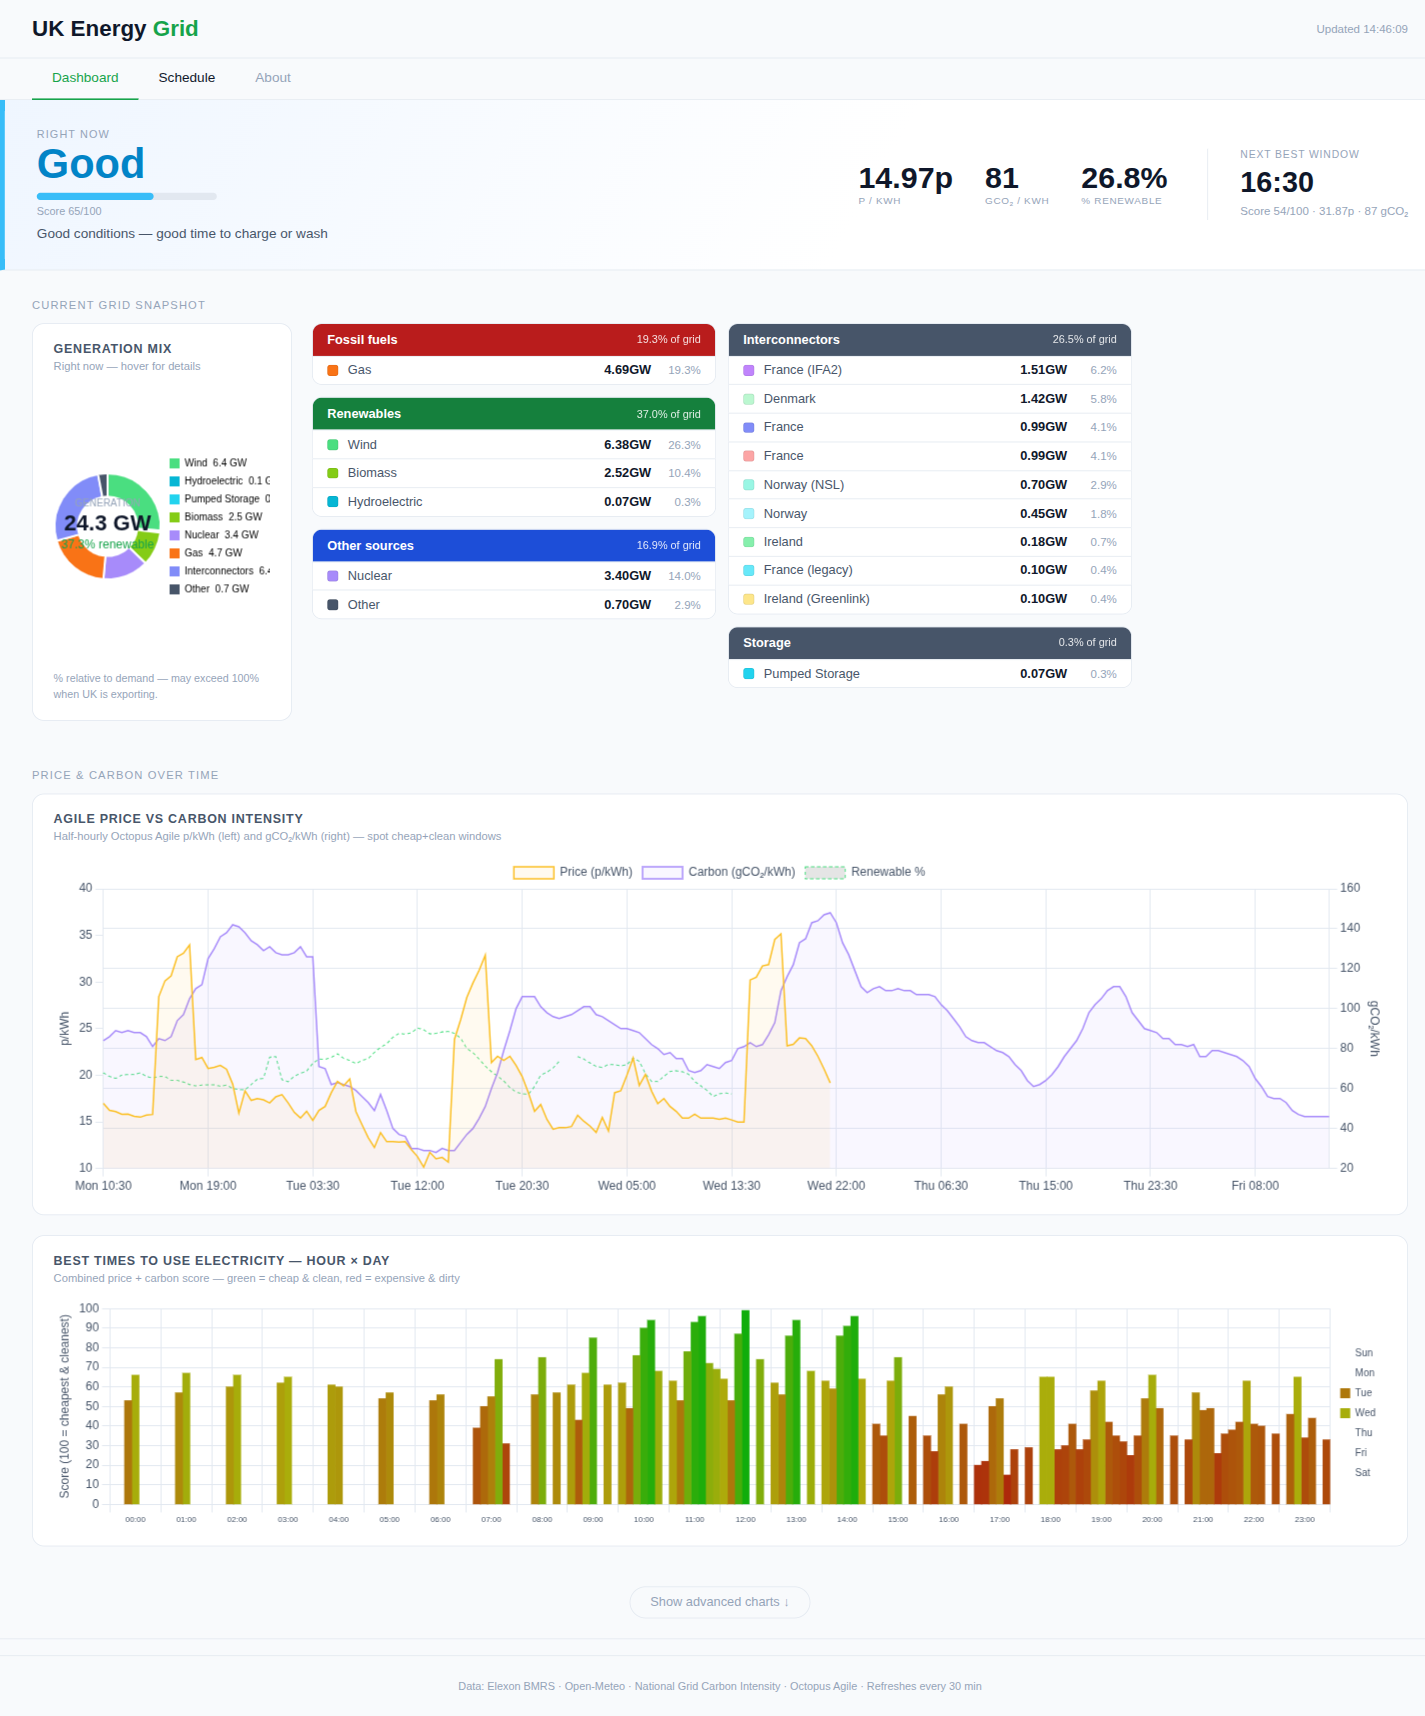
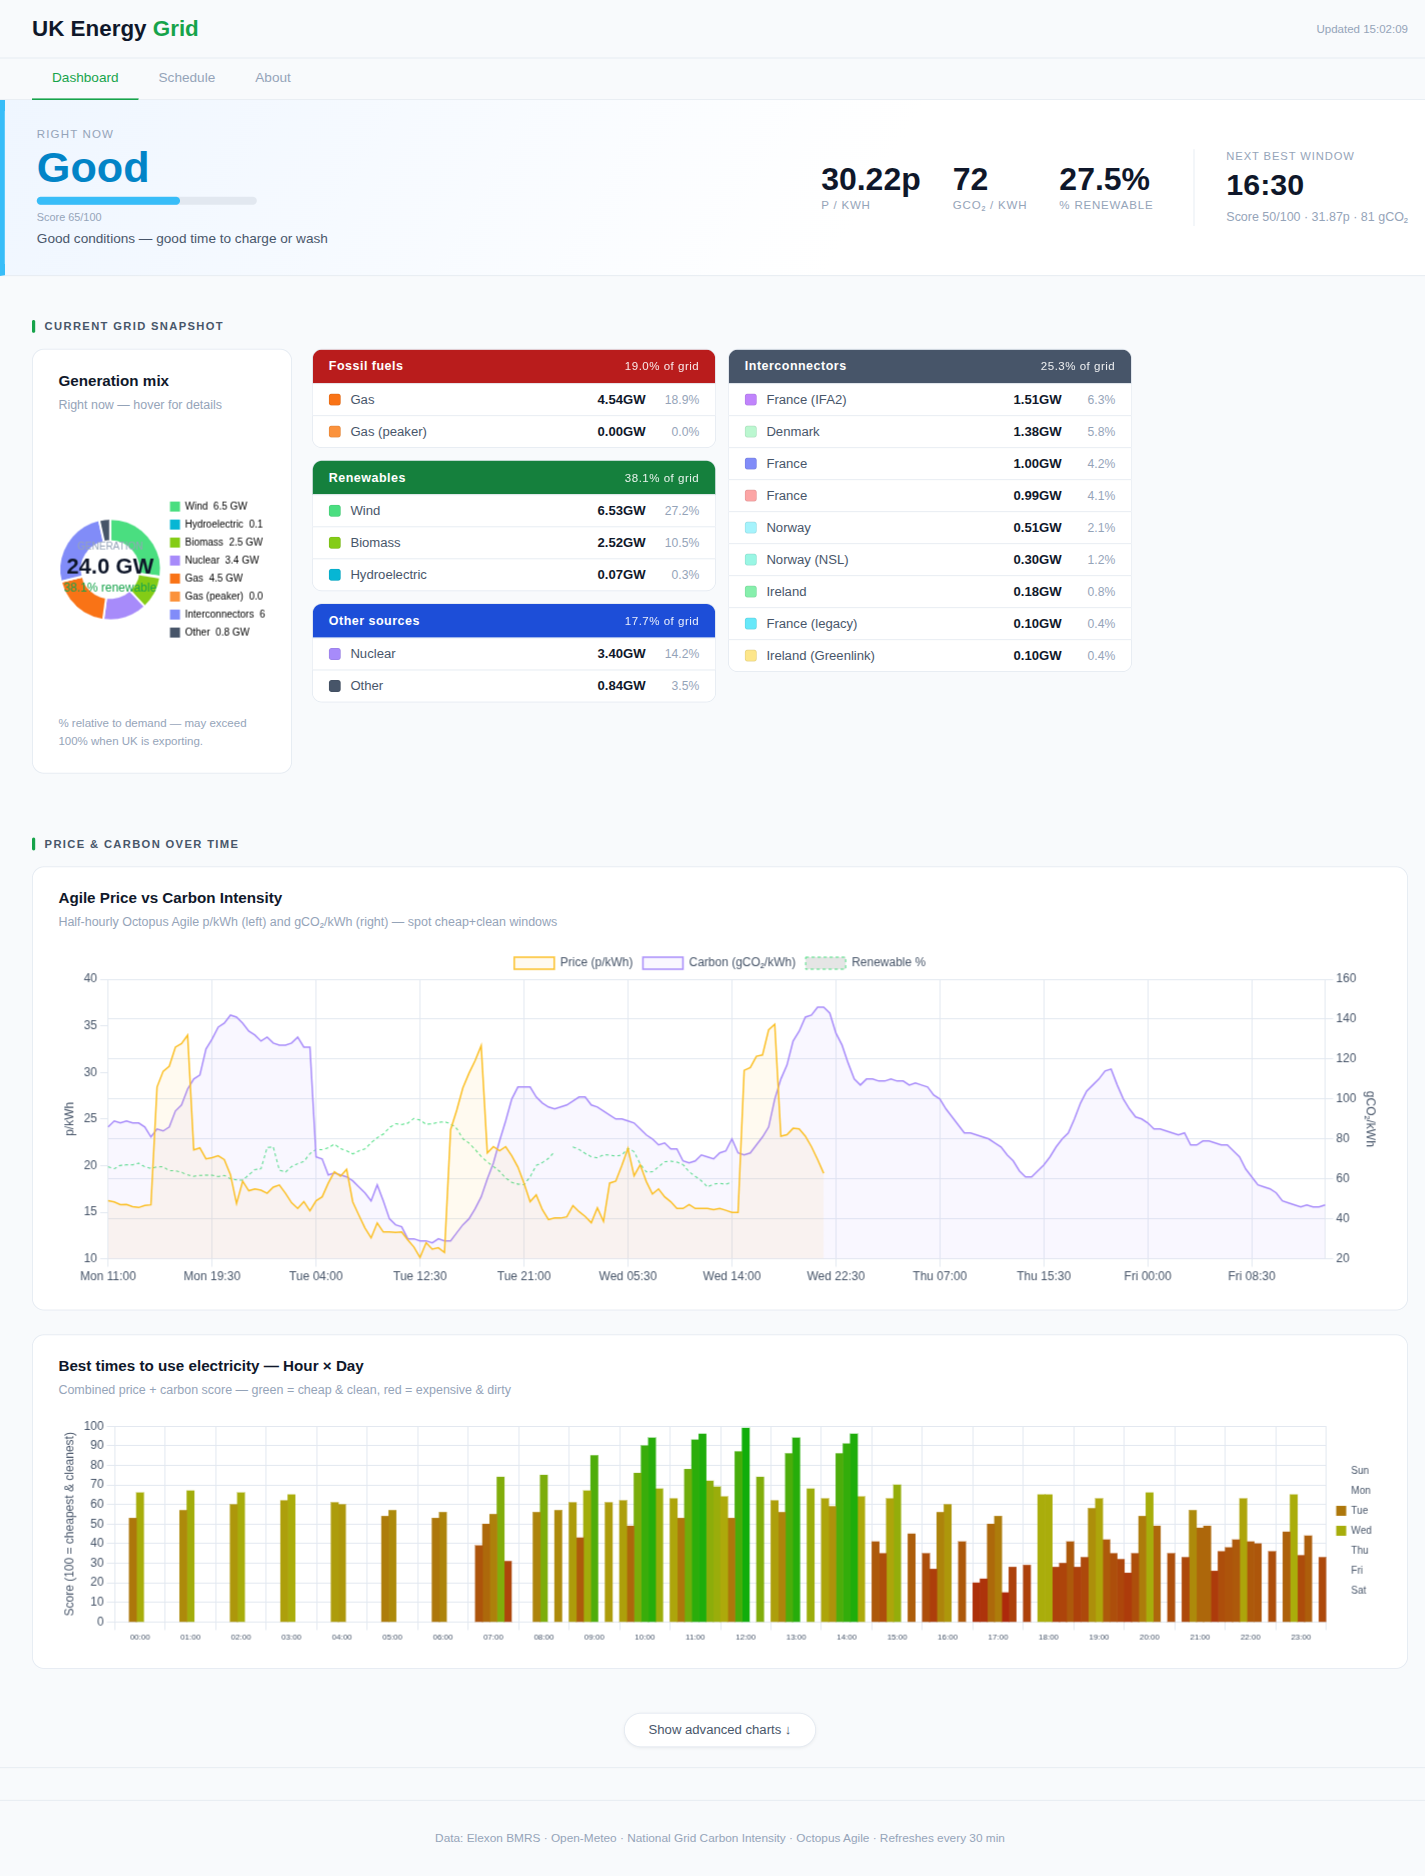
Improve readability and visual polish throughout UI
- Section titles: add green left-bar accent, increase weight and size
- Card headings: drop all-caps/uppercase, increase to 0.95rem with full colour
- Labels/sub-text: bump minimum sizes from 0.62–0.65rem up to 0.70–0.78rem
- Card/section spacing: more generous padding throughout
- Hero: wider score bar (220px), larger stat values and labels
- Runner-up window rows: badge-style score pill, hover state, white bg
- Fuel snapshot rows: more padding, hover highlight, larger swatches
- Advanced-toggle button: surface background + subtle shadow
- Mobile: best-windows single-column, smaller chart heights, tighter tab labels
- Footer: larger text, more breathing room

diff --git a/dashboard/templates/index.html b/dashboard/templates/index.html
@@ -64,37 +64,42 @@
     .kpi-value.purple { color: #a78bfa; }
 
     /* ── Grid ────────────────────────────────────── */
-    .section { padding: .5rem 2rem 0; }
+    .section { padding: 1.25rem 2rem 0; }
     .section-title {
-      font-size: .7rem; text-transform: uppercase; letter-spacing: .1em;
-      color: var(--muted); margin-bottom: .75rem; margin-top: 1.25rem;
+      font-size: .7rem; font-weight: 700; text-transform: uppercase; letter-spacing: .12em;
+      color: var(--dim); margin-bottom: 1rem; margin-top: 1.5rem;
+      display: flex; align-items: center; gap: .6rem;
     }
-    .grid { display: grid; gap: 1.25rem; margin-bottom: 1.25rem; }
+    .section-title::before {
+      content: ''; display: inline-block; width: 3px; height: 13px;
+      background: #16a34a; border-radius: 2px; flex-shrink: 0;
+    }
+    .grid { display: grid; gap: 1.5rem; margin-bottom: 1.5rem; }
     .grid-1   { grid-template-columns: 1fr; }
     .grid-2   { grid-template-columns: repeat(auto-fit, minmax(420px, 1fr)); }
     .grid-3   { grid-template-columns: repeat(auto-fit, minmax(280px, 1fr)); }
 
     .card {
       background: var(--surface); border: 1px solid var(--border);
-      border-radius: 12px; padding: 1.1rem 1.3rem;
+      border-radius: 12px; padding: 1.4rem 1.6rem;
     }
     .card h2 {
-      font-size: .78rem; font-weight: 600; color: var(--dim);
-      text-transform: uppercase; letter-spacing: .06em; margin-bottom: .2rem;
+      font-size: .95rem; font-weight: 600; color: var(--text);
+      margin-bottom: .35rem;
     }
-    .card p.sub { font-size: .7rem; color: var(--muted); margin-bottom: .9rem; }
+    .card p.sub { font-size: .78rem; color: var(--muted); margin-bottom: 1rem; line-height: 1.5; }
 
     .chart-wrap          { position: relative; height: 280px; }
     .chart-wrap.tall     { height: 340px; }
     .chart-wrap.short    { height: 200px; }
     .chart-wrap.heatmap  { height: 230px; }
 
-    .no-data { color: #f87171; font-size: .78rem; padding: .5rem 0; }
+    .no-data { color: #f87171; font-size: .82rem; padding: .5rem 0; }
 
     /* ── Fuel legend swatches ───────────────────── */
-    .legend { display: flex; flex-wrap: wrap; gap: .4rem .9rem; margin-bottom: .7rem; }
-    .legend-item { display: flex; align-items: center; gap: .35rem; font-size: .7rem; color: var(--dim); cursor: pointer; }
-    .swatch { width: 10px; height: 10px; border-radius: 2px; flex-shrink: 0; }
+    .legend { display: flex; flex-wrap: wrap; gap: .5rem 1rem; margin-bottom: .85rem; }
+    .legend-item { display: flex; align-items: center; gap: .4rem; font-size: .76rem; color: var(--dim); cursor: pointer; }
+    .swatch { width: 12px; height: 12px; border-radius: 3px; flex-shrink: 0; }
 
     /* ── Regional leaderboard ───────────────────── */
 
@@ -114,14 +119,14 @@
     .window-card.good      { border-top-color: #38bdf8; }
     .window-card.fair      { border-top-color: #fbbf24; }
     .window-card.poor      { border-top-color: #f87171; }
-    .window-rank  { font-size: .65rem; text-transform: uppercase; letter-spacing: .08em; color: var(--muted); }
-    .window-time  { font-size: 1.5rem; font-weight: 700; color: #0f172a; margin: .2rem 0; }
-    .window-score { font-size: .75rem; color: var(--dim); margin-bottom: .5rem; }
-    .window-stats { display: flex; gap: .8rem; flex-wrap: wrap; margin-bottom: .5rem; }
-    .window-stat  { font-size: .75rem; }
-    .window-stat strong { display: block; font-size: 1rem; font-weight: 700; }
-    .window-stat .lbl  { color: var(--muted); font-size: .65rem; }
-    .window-rec   { font-size: .72rem; color: var(--dim); font-style: italic; border-top: 1px solid var(--border); padding-top: .5rem; margin-top: .3rem; }
+    .window-rank  { font-size: .7rem; text-transform: uppercase; letter-spacing: .08em; color: var(--muted); }
+    .window-time  { font-size: 1.55rem; font-weight: 700; color: #0f172a; margin: .25rem 0; }
+    .window-score { font-size: .78rem; color: var(--dim); margin-bottom: .6rem; }
+    .window-stats { display: flex; gap: 1rem; flex-wrap: wrap; margin-bottom: .6rem; }
+    .window-stat  { font-size: .78rem; }
+    .window-stat strong { display: block; font-size: 1.05rem; font-weight: 700; }
+    .window-stat .lbl  { color: var(--muted); font-size: .7rem; }
+    .window-rec   { font-size: .76rem; color: var(--dim); font-style: italic; border-top: 1px solid var(--border); padding-top: .55rem; margin-top: .4rem; }
 
     /* ── Hero signal ─────────────────────────────────────── */
     .hero {
@@ -138,15 +143,15 @@
     .hero-inner { display:flex; align-items:center; gap:2.5rem; flex-wrap:wrap; }
 
     .hero-signal { flex:1; min-width:220px; }
-    .hero-eyebrow { font-size:.68rem; text-transform:uppercase; letter-spacing:.1em; color:var(--muted); margin-bottom:.2rem; }
-    .hero-word  { font-size:2.6rem; font-weight:800; line-height:1; margin-bottom:.5rem; }
+    .hero-eyebrow { font-size:.72rem; text-transform:uppercase; letter-spacing:.1em; color:var(--muted); margin-bottom:.25rem; }
+    .hero-word  { font-size:2.7rem; font-weight:800; line-height:1; margin-bottom:.55rem; }
     .hero.excellent .hero-word { color:#16a34a; }
     .hero.good      .hero-word { color:#0284c7; }
     .hero.fair      .hero-word { color:#d97706; }
     .hero.poor      .hero-word { color:#dc2626; }
 
-    .hero-bar-wrap { background:#e2e8f0; border-radius:99px; height:7px; width:180px; margin-bottom:.35rem; }
-    .hero-bar { height:7px; border-radius:99px; transition:width .7s ease; }
+    .hero-bar-wrap { background:#e2e8f0; border-radius:99px; height:8px; width:220px; margin-bottom:.4rem; }
+    .hero-bar { height:8px; border-radius:99px; transition:width .7s ease; }
     .hero.excellent .hero-bar { background:#22c55e; }
     .hero.good      .hero-bar { background:#38bdf8; }
     .hero.fair      .hero-bar { background:#fbbf24; }
@@ -156,20 +161,20 @@
     .hero-rec { font-size:.85rem; color:var(--dim); }
 
     .hero-stats { display:flex; gap:2rem; }
-    .hero-stat-val { font-size:1.9rem; font-weight:700; color:var(--text); line-height:1; }
-    .hero-stat-lbl { font-size:.62rem; text-transform:uppercase; letter-spacing:.07em; color:var(--muted); margin-top:.15rem; }
+    .hero-stat-val { font-size:2rem; font-weight:700; color:var(--text); line-height:1; }
+    .hero-stat-lbl { font-size:.72rem; text-transform:uppercase; letter-spacing:.07em; color:var(--muted); margin-top:.2rem; }
 
     .hero-next {
-      border-left:1px solid var(--border); padding-left:2rem; min-width:170px;
+      border-left:1px solid var(--border); padding-left:2rem; min-width:180px;
     }
-    .hero-next-lbl  { font-size:.65rem; text-transform:uppercase; letter-spacing:.08em; color:var(--muted); margin-bottom:.3rem; }
-    .hero-next-time { font-size:1.8rem; font-weight:700; color:var(--text); }
-    .hero-next-sub  { font-size:.72rem; color:var(--muted); margin-top:.25rem; line-height:1.5; }
+    .hero-next-lbl  { font-size:.7rem; text-transform:uppercase; letter-spacing:.08em; color:var(--muted); margin-bottom:.35rem; }
+    .hero-next-time { font-size:1.9rem; font-weight:700; color:var(--text); }
+    .hero-next-sub  { font-size:.78rem; color:var(--muted); margin-top:.3rem; line-height:1.5; }
 
     /* ── Explainer strip ─────────────────────────────────── */
     .explainer {
-      padding: .75rem 2rem;
-      font-size: .82rem; color: var(--dim); line-height: 1.6;
+      padding: .9rem 2rem;
+      font-size: .85rem; color: var(--dim); line-height: 1.65;
       border-bottom: 1px solid var(--border);
       background: var(--surface);
     }
@@ -177,7 +182,7 @@
     /* ── Section title row (title + day tabs inline) ────── */
     .section-title-row {
       display: flex; align-items: center; justify-content: space-between;
-      margin-bottom: .75rem; margin-top: 1.25rem;
+      margin-bottom: 1rem; margin-top: 1.5rem;
     }
     .section-title-row .section-title { margin: 0; }
     .day-tabs { display: flex; gap: .3rem; }
@@ -222,26 +227,31 @@
       background: var(--bg); border: 1px solid var(--border); border-radius: 10px;
       padding: 1rem 1.2rem; border-top: 3px solid #22c55e;
     }
-    .a-best-rank  { font-size: .65rem; text-transform: uppercase; letter-spacing: .08em; color: var(--muted); }
-    .a-best-time  { font-size: 1.6rem; font-weight: 700; color: var(--text); margin: .2rem 0 .1rem; }
-    .a-best-score { font-size: .72rem; color: var(--muted); margin-bottom: .5rem; }
-    .a-best-stats { display: flex; gap: 1rem; font-size: .78rem; color: var(--dim); margin-bottom: .6rem; flex-wrap: wrap; }
+    .a-best-rank  { font-size: .7rem; text-transform: uppercase; letter-spacing: .08em; color: var(--muted); }
+    .a-best-time  { font-size: 1.7rem; font-weight: 700; color: var(--text); margin: .25rem 0 .15rem; }
+    .a-best-score { font-size: .76rem; color: var(--muted); margin-bottom: .6rem; }
+    .a-best-stats { display: flex; gap: 1rem; font-size: .82rem; color: var(--dim); margin-bottom: .7rem; flex-wrap: wrap; }
     .a-savings {
-      font-size: .8rem; background: #f0fdf4; border: 1px solid #bbf7d0;
-      border-radius: 6px; padding: .45rem .75rem; color: #15803d; line-height: 1.5;
+      font-size: .82rem; background: #f0fdf4; border: 1px solid #bbf7d0;
+      border-radius: 6px; padding: .5rem .85rem; color: #15803d; line-height: 1.55;
     }
     .a-savings strong { font-weight: 700; }
 
     .a-alts { display: flex; flex-direction: column; gap: .5rem; }
     .a-alt {
-      background: var(--bg); border: 1px solid var(--border); border-radius: 8px;
-      padding: .65rem 1rem; display: flex; align-items: center; gap: .75rem;
-      font-size: .78rem;
+      background: var(--surface); border: 1px solid var(--border); border-radius: 8px;
+      padding: .8rem 1rem; display: flex; align-items: center; gap: .75rem;
+      font-size: .82rem; transition: border-color .15s, box-shadow .15s;
     }
-    .a-alt-rank  { font-weight: 700; color: var(--muted); width: 22px; flex-shrink: 0; }
-    .a-alt-time  { font-weight: 600; color: var(--text); width: 110px; flex-shrink: 0; }
-    .a-alt-stats { color: var(--muted); }
-    .a-alt-score { margin-left: auto; font-size: .7rem; color: var(--muted); flex-shrink: 0; }
+    .a-alt:hover { border-color: var(--muted); box-shadow: 0 1px 4px rgba(0,0,0,.06); }
+    .a-alt-rank  { font-weight: 700; color: var(--muted); width: 24px; flex-shrink: 0; font-size: .78rem; }
+    .a-alt-time  { font-weight: 600; color: var(--text); width: 120px; flex-shrink: 0; }
+    .a-alt-stats { color: var(--dim); flex: 1; }
+    .a-alt-score {
+      margin-left: auto; font-size: .72rem; flex-shrink: 0;
+      background: var(--bg); border: 1px solid var(--border);
+      border-radius: 5px; padding: .15rem .55rem; color: var(--dim); font-weight: 600;
+    }
 
     /* ── Advanced toggle ─────────────────────────────────── */
     .advanced-toggle-row {
@@ -250,36 +260,49 @@
       border-bottom: 1px solid var(--border);
     }
     .advanced-toggle-btn {
-      background: none; border: 1px solid var(--border);
-      color: var(--muted); font-size: .8rem; cursor: pointer;
-      padding: .5rem 1.25rem; border-radius: 99px;
-      transition: color .15s, border-color .15s;
+      background: var(--surface); border: 1px solid var(--border);
+      color: var(--dim); font-size: .82rem; font-weight: 500; cursor: pointer;
+      padding: .55rem 1.5rem; border-radius: 99px;
+      transition: color .15s, border-color .15s, box-shadow .15s;
+      box-shadow: 0 1px 3px rgba(0,0,0,.06);
     }
-    .advanced-toggle-btn:hover { color: var(--text); border-color: var(--muted); }
+    .advanced-toggle-btn:hover { color: var(--text); border-color: var(--muted); box-shadow: 0 2px 6px rgba(0,0,0,.09); }
 
     /* ── Mobile ──────────────────────────────────────────── */
     @media (max-width: 640px) {
-      header { padding: 1rem; }
+      header { padding: .875rem 1rem; }
       header h1 { font-size: 1.1rem; }
       .hero { padding: 1.25rem 1rem; }
       .hero-inner { gap: 1.25rem; }
-      .hero-word { font-size: 2rem; }
-      .hero-stats { gap: 1.25rem; }
-      .hero-stat-val { font-size: 1.5rem; }
+      .hero-word { font-size: 2.1rem; }
+      .hero-stats { gap: 1.5rem; }
+      .hero-stat-val { font-size: 1.6rem; }
+      .hero-stat-lbl { font-size: .7rem; }
+      .hero-bar-wrap { width: 160px; }
       .hero-next { border-left: none; padding-left: 0; border-top: 1px solid var(--border); padding-top: .75rem; width: 100%; }
       .kpi-bar { padding: .75rem 1rem; }
-      .section { padding: .5rem 1rem 0; }
-      .best-windows-grid { grid-template-columns: 1fr 1fr; }
+      .section { padding: .75rem 1rem 0; }
+      .section-title { margin-top: 1.25rem; }
+      .best-windows-grid { grid-template-columns: 1fr; }
       .grid-2, .grid-3 { grid-template-columns: 1fr; }
-      .explainer { padding: .75rem 1rem; }
-      .tab-bar { padding: 0 1rem; }
+      .card { padding: 1.1rem 1.2rem; }
+      .chart-wrap { height: 240px; }
+      .chart-wrap.tall { height: 280px; }
+      .chart-wrap.short { height: 170px; }
+      .chart-wrap.heatmap { height: 200px; }
+      .explainer { padding: .85rem 1rem; }
+      .tab-bar { padding: 0 .5rem; }
+      .tab-btn { padding: .75rem .9rem; font-size: .82rem; }
       .info-page { padding: 1.25rem 1rem; }
       .term-row { grid-template-columns: 1fr; gap: .25rem; }
+      .a-result-grid { grid-template-columns: 1fr; }
+      .snapshot-groups-grid { grid-template-columns: 1fr; }
     }
 
     footer {
-      text-align: center; padding: 1.5rem; font-size: .68rem; color: var(--muted);
-      border-top: 1px solid var(--border); margin-top: 1rem;
+      text-align: center; padding: 1.75rem; font-size: .74rem; color: var(--muted);
+      border-top: 1px solid var(--border); margin-top: 2rem;
+      line-height: 1.6;
     }
 
     /* ── Tabs ───────────────────────────────────── */
@@ -343,29 +366,31 @@
     }
     .fuel-group-head {
       display: flex; align-items: center; justify-content: space-between;
-      padding: .55rem .9rem;
-      font-size: .8rem; font-weight: 700; color: #fff;
+      padding: .6rem 1rem;
+      font-size: .78rem; font-weight: 700; color: #fff;
+      letter-spacing: .04em;
     }
     .fuel-group-head.fossil   { background: #b91c1c; }
     .fuel-group-head.renewable{ background: #15803d; }
     .fuel-group-head.other    { background: #1d4ed8; }
     .fuel-group-head.storage  { background: #475569; }
     .fuel-group-head.interconn{ background: #475569; }
-    .fuel-group-head-note     { font-size: .68rem; font-weight: 400; opacity: .85; }
+    .fuel-group-head-note     { font-size: .72rem; font-weight: 400; opacity: .9; }
 
     .fuel-row {
       display: flex; align-items: center; gap: .6rem;
-      padding: .42rem .9rem;
+      padding: .5rem 1rem;
       border-top: 1px solid var(--border);
       background: var(--surface);
-      font-size: .8rem;
+      font-size: .82rem;
     }
-    .fuel-row-swatch { width: 11px; height: 11px; border-radius: 3px; flex-shrink: 0; border: 1px solid rgba(0,0,0,.08); }
+    .fuel-row:hover { background: var(--bg); }
+    .fuel-row-swatch { width: 12px; height: 12px; border-radius: 3px; flex-shrink: 0; border: 1px solid rgba(0,0,0,.08); }
     .fuel-row-name   { flex: 1; color: var(--dim); }
-    .fuel-row-gw     { width: 55px; text-align: right; font-weight: 600; font-variant-numeric: tabular-nums; color: var(--text); }
-    .fuel-row-pct    { width: 40px; text-align: right; color: var(--muted); font-size: .72rem; font-variant-numeric: tabular-nums; }
+    .fuel-row-gw     { width: 60px; text-align: right; font-weight: 600; font-variant-numeric: tabular-nums; color: var(--text); }
+    .fuel-row-pct    { width: 44px; text-align: right; color: var(--muted); font-size: .76rem; font-variant-numeric: tabular-nums; }
     .fuel-row.negative .fuel-row-gw  { color: #dc2626; }
-    .snapshot-note   { font-size: .67rem; color: var(--muted); line-height: 1.5; margin-top: .25rem; }
+    .snapshot-note   { font-size: .72rem; color: var(--muted); line-height: 1.5; margin-top: .35rem; }
 
     .fuel-grid { display: grid; grid-template-columns: repeat(auto-fill, minmax(260px, 1fr)); gap: .75rem; }
     .fuel-card {
